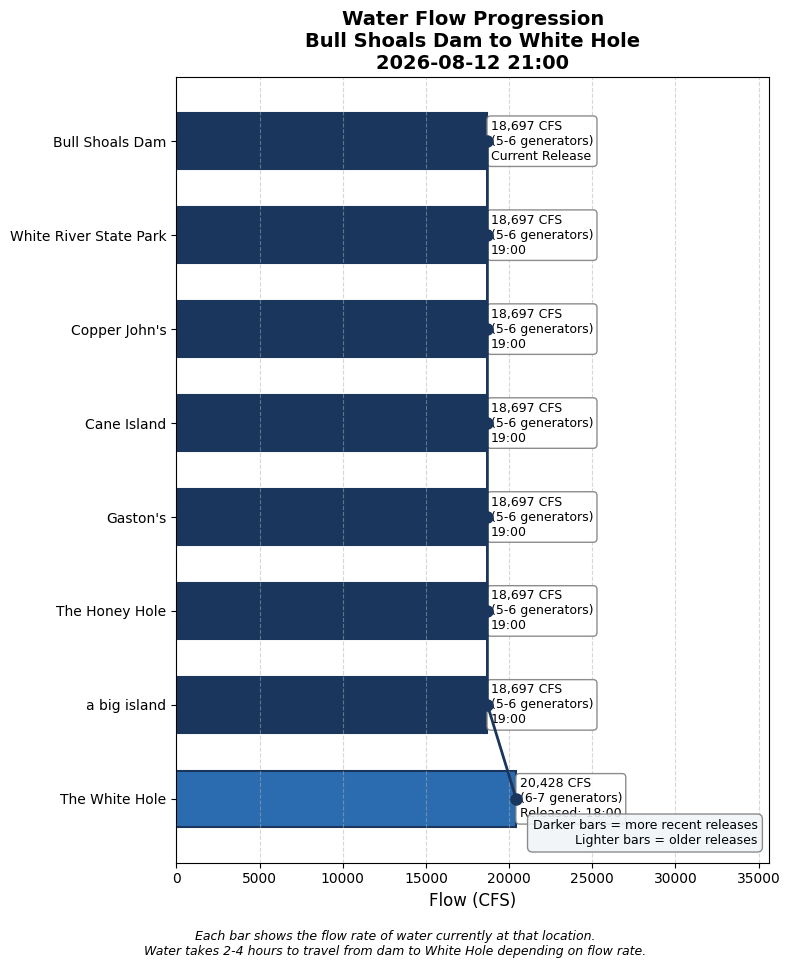
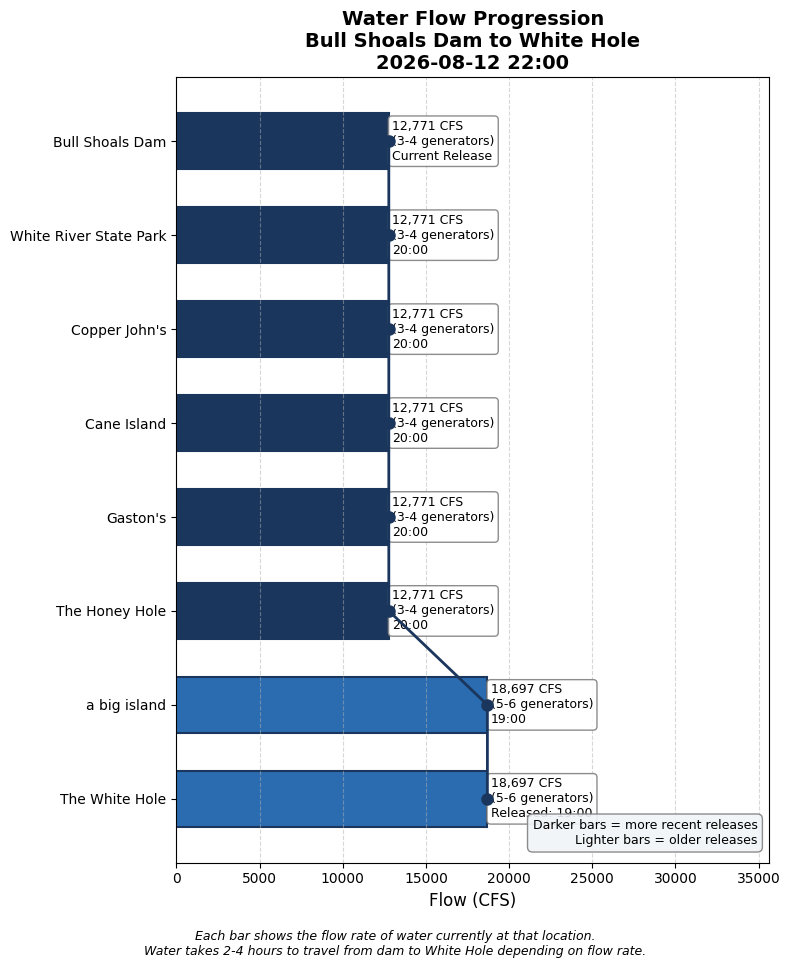
Update water conditions 2026-08-12 22:00

Changed region(s): [[0.2127, 0.093, 0.7899, 0.8678]]

diff --git a/white_hole_conditions.html b/white_hole_conditions.html
@@ -3,7 +3,7 @@
 <head>
     <meta charset="UTF-8">
     <meta name="viewport" content="width=device-width, initial-scale=1.0">
-    <title>White Hole Conditions - 2026-08-12 21:00</title>
+    <title>White Hole Conditions - 2026-08-12 22:00</title>
     <style>
         body {
             font-family: -apple-system, BlinkMacSystemFont, 'Segoe UI', Roboto, sans-serif;
@@ -148,20 +148,20 @@
 </head>
 <body>
     <h1>White Hole Current Conditions</h1>
-    <p class="subtitle">Wednesday, August 12, 2026 at 09:00 PM</p>
+    <p class="subtitle">Wednesday, August 12, 2026 at 10:00 PM</p>
 
     <!-- HEADLINE BANNER -->
     <div class="headline-banner">
         <div class="main-status">🚫 NO WADING — Water too high for safe wading</div>
-        <div class="forecast-status">➡ STABLE CONDITIONS expected</div>
+        <div class="forecast-status">📉 FALLING WATER — Conditions improving</div>
         
     </div>
 
     <!-- CURRENT CONDITIONS -->
     <div class="current-conditions">
         <h3>Current Conditions at White Hole</h3>
-        <div class="flow-display">20,428 CFS</div>
-        <div class="generator-display">Equivalent to 6-7 generators</div>
+        <div class="flow-display">18,697 CFS</div>
+        <div class="generator-display">Equivalent to 5-6 generators</div>
         <div class="condition-pills">
             <span class="pill wading">No Wading</span>
             <span class="pill boating">High Water</span>
@@ -204,33 +204,25 @@
                         </td>
                     </tr>
                 
-                    <tr style="background-color: #faf5ff; border-left: 4px solid #38a169;">
-                        <td style="padding: 10px; font-weight: bold;">9 PM</td>
-                        <td style="padding: 10px;">1,938 CFS<br><small style="color: #666;">(0-1 generators: 1688 generation + 250 min flow)</small></td>
-                        <td style="padding: 10px;">~12:44 AM
-                            <span style="display: inline-block; margin-left: 6px; padding: 2px 8px; border-radius: 12px; font-size: 0.8em; background-color: #d1fae5; color: #065f46;">Excellent Wading</span>
-                        </td>
-                    </tr>
-                
             
                     
                 <tr><td colspan="3" style="padding: 8px 10px; font-size: 0.8em; font-weight: bold; color: #2b6cb0; text-transform: uppercase; letter-spacing: 0.05em; background-color: #ebf8ff;">Actual (dam readings)</td></tr>
                 
                     <tr style="background-color: #ebf8ff;">
-                        <td style="padding: 10px; font-weight: bold;">7:00 PM</td>
-                        <td style="padding: 10px;">18,697 CFS<br><small style="color: #666;">(5-6 generators)</small></td>
-                        <td style="padding: 10px;"><span style="color: #2b6cb0;">→ Arrives ~9:07 PM (in 7 min)</span></td>
+                        <td style="padding: 10px; font-weight: bold;">8:00 PM</td>
+                        <td style="padding: 10px;">12,771 CFS<br><small style="color: #666;">(3-4 generators)</small></td>
+                        <td style="padding: 10px;"><span style="color: #2b6cb0;">→ Arrives ~10:27 PM (in 27 min)</span></td>
                     </tr>
                 
                     <tr style="background-color: #e6fffa;">
-                        <td style="padding: 10px; font-weight: bold;">6:00 PM</td>
-                        <td style="padding: 10px;">20,428 CFS<br><small style="color: #666;">(6-7 generators)</small></td>
+                        <td style="padding: 10px; font-weight: bold;">7:00 PM</td>
+                        <td style="padding: 10px;">18,697 CFS<br><small style="color: #666;">(5-6 generators)</small></td>
                         <td style="padding: 10px;"><span style="color: #319795; font-weight: bold;">← AT WHITE HOLE NOW</span></td>
                     </tr>
                 
                     <tr style="">
-                        <td style="padding: 10px; font-weight: bold;">2:00 PM</td>
-                        <td style="padding: 10px;">17,152 CFS<br><small style="color: #666;">(5-6 generators)</small></td>
+                        <td style="padding: 10px; font-weight: bold;">3:00 PM</td>
+                        <td style="padding: 10px;">19,276 CFS<br><small style="color: #666;">(5-6 generators)</small></td>
                         <td style="padding: 10px;"><span style="color: #718096;">passed</span></td>
                     </tr>
                 
@@ -260,9 +252,9 @@
         </summary>
         <div style="padding: 15px;">
             <ul>
-                <li>Latest dam reading: 18,697 CFS at 2026-08-12 19:00</li>
-                <li>Travel time to White Hole: 2.0 hours at current flow</li>
-                <li>White Hole conditions based on dam reading from: 2026-08-12 18:00</li>
+                <li>Latest dam reading: 12,771 CFS at 2026-08-12 20:00</li>
+                <li>Travel time to White Hole: 2.1 hours at current flow</li>
+                <li>White Hole conditions based on dam reading from: 2026-08-12 19:00</li>
             </ul>
         </div>
     </details>
@@ -284,6 +276,13 @@
                     </thead>
                     <tbody>
                         
+                <tr style="border-bottom: 1px solid #eee;">
+                    <td style="padding: 8px;">2026-08-12 20:00</td>
+                    <td style="padding: 8px; text-align: right;">12771</td>
+                    <td style="padding: 8px; text-align: right;">3.9</td>
+                    <td style="padding: 8px; text-align: right;">2.5</td>
+                </tr>
+                
                 <tr style="border-bottom: 1px solid #eee;">
                     <td style="padding: 8px;">2026-08-12 19:00</td>
                     <td style="padding: 8px; text-align: right;">18697</td>
@@ -347,13 +346,6 @@
                     <td style="padding: 8px; text-align: right;">3.7</td>
                 </tr>
                 
-                <tr style="border-bottom: 1px solid #eee;">
-                    <td style="padding: 8px;">2026-08-12 10:00</td>
-                    <td style="padding: 8px; text-align: right;">727</td>
-                    <td style="padding: 8px; text-align: right;">0.2</td>
-                    <td style="padding: 8px; text-align: right;">3.7</td>
-                </tr>
-                
                     </tbody>
                 </table>
             </div>
@@ -361,7 +353,7 @@
         
 
     <div class="timestamp">
-        Data retrieved and processed on 2026-08-12 21:00:10
+        Data retrieved and processed on 2026-08-12 22:00:08
     </div>
 </body>
 </html>
